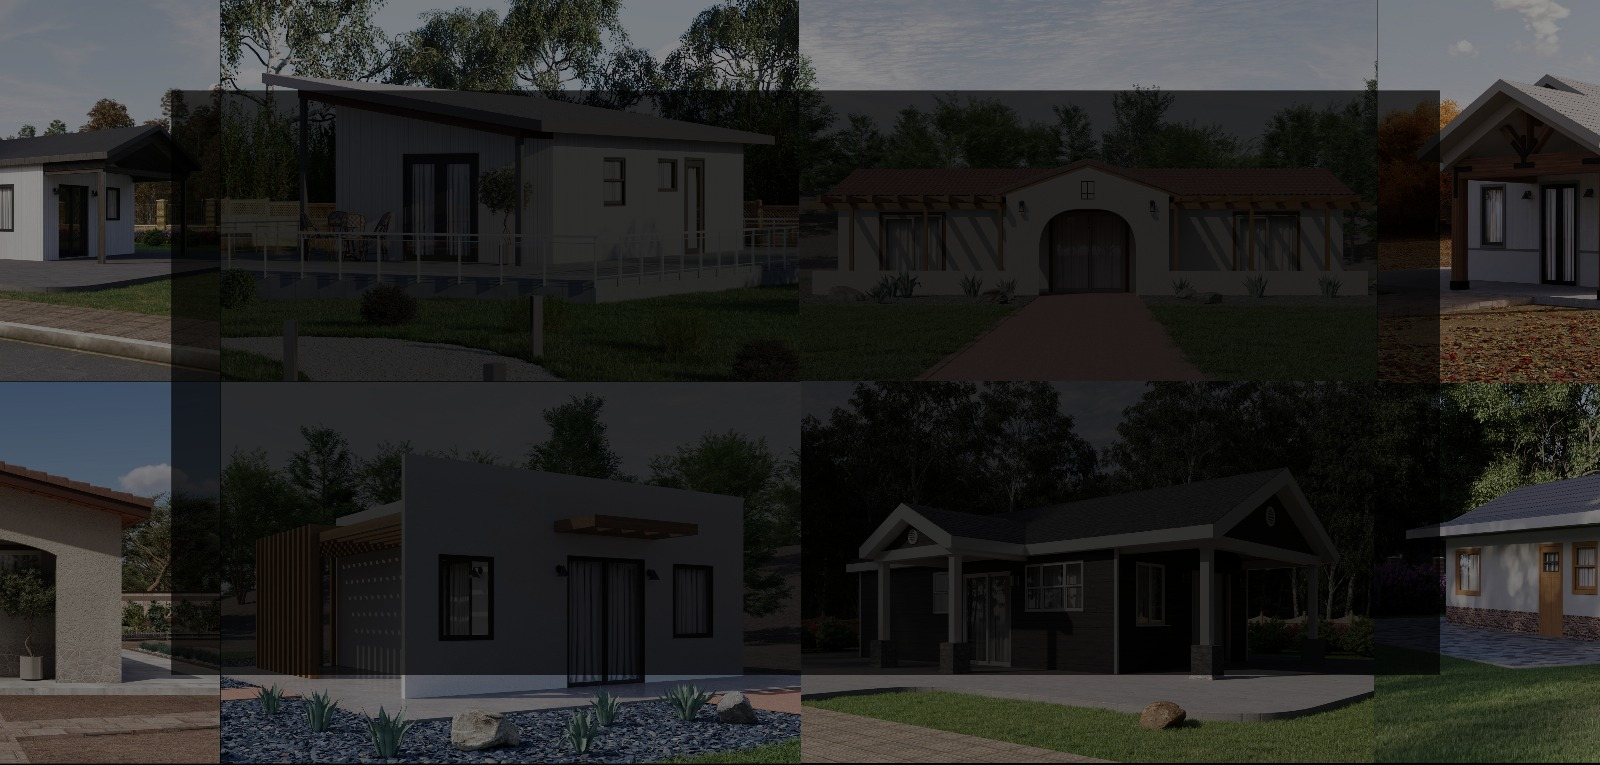
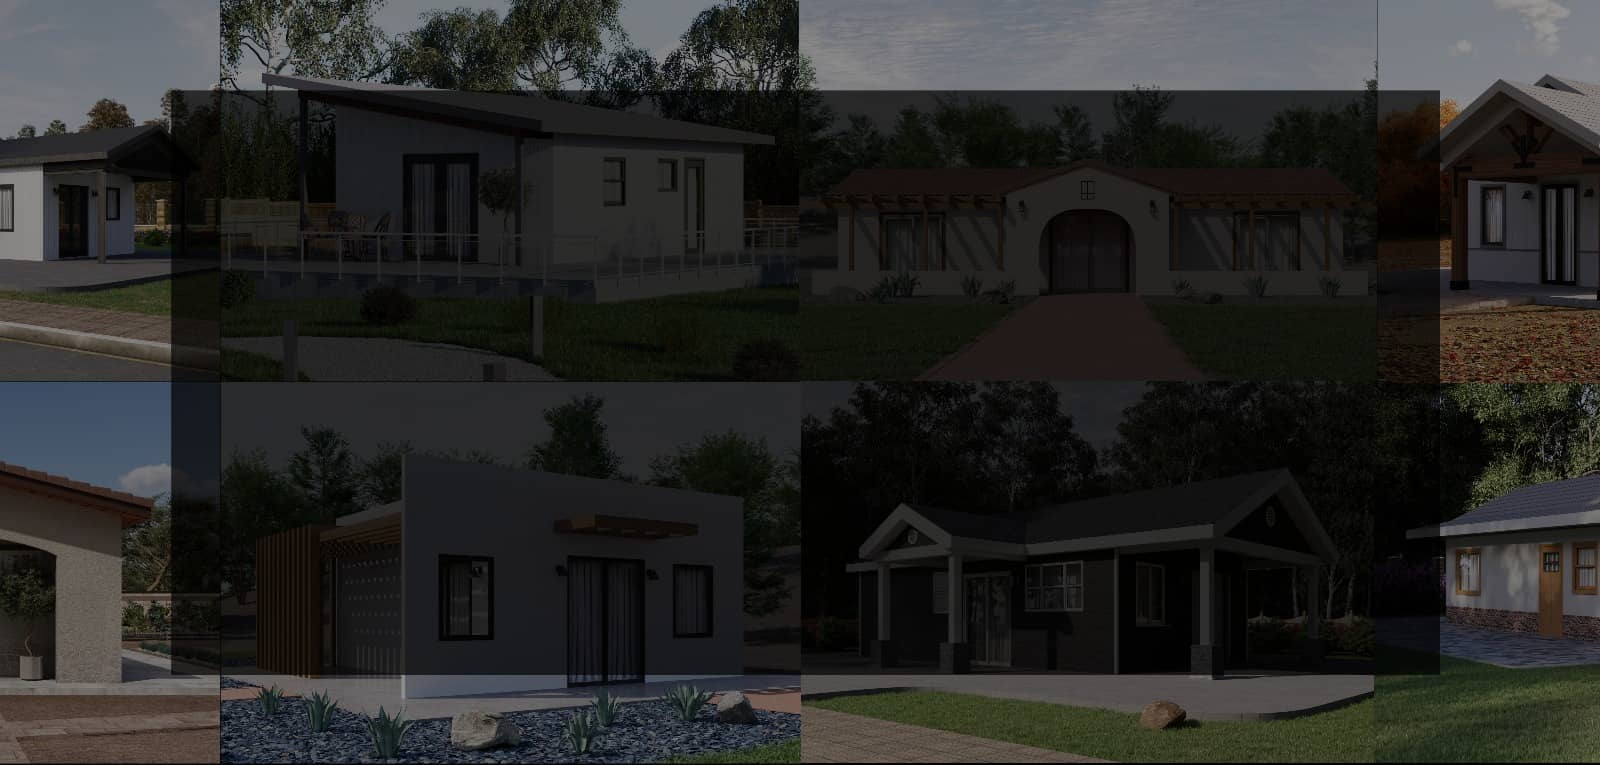
ggs

diff --git a/aduplans-web/app/page.js b/aduplans-web/app/page.js
@@ -1,4 +1,5 @@
 import Link from "next/link";
+import { Suspense } from "react";
 import { getAllPlans, buildFacets } from "@/lib/baserow";
 import StateSelector from "@/components/StateSelector";
 import USAMap from "@/components/USAMap";
@@ -8,21 +9,20 @@ import MetalVsWood from "@/components/MetalVsWood";
 import EightSteps from "@/components/EightSteps";
 import PlanCard from "@/components/PlanCard";
 
+// Serve a cached, statically-rendered shell and refresh the catalog snapshot
+// every 5 minutes in the background (ISR) — visitors never wait on Baserow.
+export const revalidate = 300;
+
 // Real content mirrored from aduplans.com
 const VIDEOS = [
   "GncoRZO4rAI", "R0VZMLq_74Q", "Gl8Y2hnVSX0", "8kx_BZTx2hs",
   "MerPhwrbB-c", "zuwfcVv9Rkk", "km4yeQrO7_o", "BuNzQaJor_s",
 ];
 
-export default async function HomePage() {
-  const plans = await getAllPlans();
-  const facets = buildFacets(plans);
-  const placeable = plans.filter((p) => p.placeable);
-  const featured = placeable
-    .filter((p) => p.elevationImage)
-    .filter((_, i) => i % 11 === 0)
-    .slice(0, 8);
-
+// The page shell is SYNCHRONOUS so the hero + static sections paint instantly.
+// The two data-dependent sections are async and stream in behind <Suspense>,
+// so a slow or cold Baserow fetch can never block first paint / the hero.
+export default function HomePage() {
   return (
     <>
       {/* ── Hero (real ADUplans collage background) ──────────────────────── */}
@@ -92,62 +92,15 @@ export default async function HomePage() {
       {/* ── A note to jurisdictions + top-10 designers + City Planner video ─ */}
       <DesignersSection />
 
-      {/* ── Select your state (+ PRADU counters) ─────────────────────────── */}
-      <section id="select-state" className="border-t border-line bg-paper py-16 md:py-20">
-        <div className="container-x">
-        <div className="reveal mx-auto max-w-3xl text-center">
-          <h2 className="font-display text-3xl leading-tight text-ink md:text-4xl">
-            Choose a plan from the largest PRADU database in the world.
-          </h2>
-          <p className="mt-3 text-forest-600">
-            And FrameUpNow will convert it to steel framing for you.
-          </p>
-          <p className="mt-6 text-sm font-semibold uppercase tracking-[0.2em] text-forest-600">
-            Select your state
-          </p>
-        </div>
+      {/* ── Select your state (+ PRADU counters) — streamed ──────────────── */}
+      <Suspense fallback={<SelectStateSkeleton />}>
+        <SelectStateSection />
+      </Suspense>
 
-        {/* PRADU counters */}
-        <div className="mt-8">
-          <StatCounters total={plans.length} lastMonth={122} />
-        </div>
-
-        <div className="mt-12">
-          <p className="mb-5 text-center text-sm text-ink-soft">
-            Click your state on the map to begin — {facets.states.length} states with permit-ready
-            plans and growing.
-          </p>
-          <USAMap states={facets.states} />
-        </div>
-
-        <details className="mx-auto mt-8 max-w-4xl">
-          <summary className="cursor-pointer text-center text-sm font-semibold text-forest hover:text-forest-600">
-            Or choose your state from the list ↓
-          </summary>
-          <div className="mt-6">
-            <StateSelector states={facets.states} />
-          </div>
-        </details>
-        </div>
-      </section>
-
-      {/* ── Featured plans ───────────────────────────────────────────────── */}
-      <section className="container-x py-16">
-        <div className="reveal flex items-end justify-between gap-4">
-          <div>
-            <span className="text-xs font-semibold uppercase tracking-widest text-forest-600">Popular plans</span>
-            <h2 className="mt-1 font-display text-3xl text-ink md:text-4xl">Featured PRADUs</h2>
-          </div>
-          <Link href="/plans" className="hidden shrink-0 text-sm font-semibold text-forest hover:text-forest-600 sm:block">
-            View all {plans.length.toLocaleString()} →
-          </Link>
-        </div>
-        <div className="reveal-stagger mt-8 grid grid-cols-2 gap-4 md:grid-cols-4 md:gap-5">
-          {featured.map((plan, i) => (
-            <PlanCard key={plan.id} plan={plan} priority={i < 4} />
-          ))}
-        </div>
-      </section>
+      {/* ── Featured plans — streamed ────────────────────────────────────── */}
+      <Suspense fallback={<FeaturedSkeleton />}>
+        <FeaturedPlans />
+      </Suspense>
 
       {/* ── 20 reasons: Metal vs Wood ────────────────────────────────────── */}
       <MetalVsWood />
@@ -197,6 +150,111 @@ export default async function HomePage() {
         </div>
       </section>
     </>
+  );
+}
+
+// ── Data-dependent sections (async → streamed behind <Suspense>) ─────────────
+// Both call getAllPlans(); React cache() dedupes it to a single fetch per render.
+
+async function SelectStateSection() {
+  const plans = await getAllPlans();
+  const facets = buildFacets(plans);
+  return (
+    <section id="select-state" className="border-t border-line bg-paper py-16 md:py-20">
+      <div className="container-x">
+        <div className="reveal mx-auto max-w-3xl text-center">
+          <h2 className="font-display text-3xl leading-tight text-ink md:text-4xl">
+            Choose a plan from the largest PRADU database in the world.
+          </h2>
+          <p className="mt-3 text-forest-600">
+            And FrameUpNow will convert it to steel framing for you.
+          </p>
+          <p className="mt-6 text-sm font-semibold uppercase tracking-[0.2em] text-forest-600">
+            Select your state
+          </p>
+        </div>
+
+        {/* PRADU counters */}
+        <div className="mt-8">
+          <StatCounters total={plans.length} lastMonth={122} />
+        </div>
+
+        <div className="mt-12">
+          <p className="mb-5 text-center text-sm text-ink-soft">
+            Click your state on the map to begin — {facets.states.length} states with permit-ready
+            plans and growing.
+          </p>
+          <USAMap states={facets.states} />
+        </div>
+
+        <details className="mx-auto mt-8 max-w-4xl">
+          <summary className="cursor-pointer text-center text-sm font-semibold text-forest hover:text-forest-600">
+            Or choose your state from the list ↓
+          </summary>
+          <div className="mt-6">
+            <StateSelector states={facets.states} />
+          </div>
+        </details>
+      </div>
+    </section>
+  );
+}
+
+async function FeaturedPlans() {
+  const plans = await getAllPlans();
+  const featured = plans
+    .filter((p) => p.placeable && p.elevationImage)
+    .filter((_, i) => i % 11 === 0)
+    .slice(0, 8);
+  return (
+    <section className="container-x py-16">
+      <div className="reveal flex items-end justify-between gap-4">
+        <div>
+          <span className="text-xs font-semibold uppercase tracking-widest text-forest-600">Popular plans</span>
+          <h2 className="mt-1 font-display text-3xl text-ink md:text-4xl">Featured PRADUs</h2>
+        </div>
+        <Link href="/plans" className="hidden shrink-0 text-sm font-semibold text-forest hover:text-forest-600 sm:block">
+          View all {plans.length.toLocaleString()} →
+        </Link>
+      </div>
+      <div className="reveal-stagger mt-8 grid grid-cols-2 gap-4 md:grid-cols-4 md:gap-5">
+        {featured.map((plan, i) => (
+          <PlanCard key={plan.id} plan={plan} priority={i < 4} />
+        ))}
+      </div>
+    </section>
+  );
+}
+
+// Layout-stable placeholders so streaming causes no content jump (no CLS).
+function SelectStateSkeleton() {
+  return (
+    <section id="select-state" className="border-t border-line bg-paper py-16 md:py-20">
+      <div className="container-x">
+        <div className="mx-auto max-w-3xl text-center">
+          <div className="mx-auto h-9 w-3/4 animate-pulse rounded bg-mist" />
+          <div className="mx-auto mt-4 h-4 w-1/2 animate-pulse rounded bg-mist" />
+        </div>
+        <div className="mx-auto mt-8 flex max-w-xl flex-col gap-4 sm:flex-row">
+          <div className="h-28 flex-1 animate-pulse rounded-2xl bg-mist" />
+          <div className="h-28 flex-1 animate-pulse rounded-2xl bg-mist" />
+        </div>
+        <div className="mx-auto mt-12 aspect-[1.6/1] max-w-4xl animate-pulse rounded-3xl bg-mist" />
+      </div>
+    </section>
+  );
+}
+
+function FeaturedSkeleton() {
+  return (
+    <section className="container-x py-16">
+      <div className="h-9 w-56 animate-pulse rounded bg-mist" />
+      <div className="mt-8 grid grid-cols-2 gap-4 md:grid-cols-4 md:gap-5">
+        {Array.from({ length: 8 }).map((_, i) => (
+          <div key={i} className="aspect-[3/4] animate-pulse rounded-xl bg-mist" />
+        ))}
+      </div>
+    </section>
   );
 }
 

diff --git a/aduplans-web/components/ScrollReveal.js b/aduplans-web/components/ScrollReveal.js
@@ -6,17 +6,20 @@ import { useEffect } from "react";
 // Adds `.is-visible` to any `.reveal` / `.reveal-stagger` element as it scrolls
 // into view, powering the site-wide fade-and-rise animations. No-JS and
 // reduced-motion users see everything normally (CSS gates on `html.js-ready`).
+//
+// It also watches for content that mounts AFTER first paint — sections streamed
+// in via <Suspense> arrive late, so a one-time scan would leave them stuck at
+// the hidden base state. A MutationObserver registers them as they appear.
 export default function ScrollReveal() {
   const pathname = usePathname();
 
   useEffect(() => {
     document.documentElement.classList.add("js-ready");
 
-    const els = Array.from(document.querySelectorAll(".reveal, .reveal-stagger"));
-    if (!els.length) return;
+    const SEL = ".reveal, .reveal-stagger";
 
     if (!("IntersectionObserver" in window)) {
-      els.forEach((el) => el.classList.add("is-visible"));
+      document.querySelectorAll(SEL).forEach((el) => el.classList.add("is-visible"));
       return;
     }
 
@@ -32,8 +35,31 @@ export default function ScrollReveal() {
       { rootMargin: "0px 0px -8% 0px", threshold: 0.06 }
     );
 
-    els.forEach((el) => io.observe(el));
-    return () => io.disconnect();
+    const seen = new WeakSet();
+    const observe = (el) => {
+      if (!seen.has(el)) {
+        seen.add(el);
+        io.observe(el);
+      }
+    };
+    const scan = (node) => {
+      if (node.nodeType !== 1) return; // elements only
+      if (node.matches?.(SEL)) observe(node);
+      node.querySelectorAll?.(SEL).forEach(observe);
+    };
+
+    scan(document.body);
+
+    // Pick up sections that stream in later (Suspense-resolved async content).
+    const mo = new MutationObserver((muts) => {
+      for (const m of muts) m.addedNodes.forEach(scan);
+    });
+    mo.observe(document.body, { childList: true, subtree: true });
+
+    return () => {
+      io.disconnect();
+      mo.disconnect();
+    };
   }, [pathname]);
 
   return null;

diff --git a/aduplans-web/app/plans/[id]/page.js b/aduplans-web/app/plans/[id]/page.js
@@ -6,6 +6,15 @@ import PlanEstimator from "@/components/PlanEstimator";
 import PlanGallery from "@/components/PlanGallery";
 import PlanCard from "@/components/PlanCard";
 
+// ISR: don't pre-build every plan at build time (there are 1000+), but cache
+// each plan page after its first visit and refresh every 5 minutes. So only the
+// very first visitor to a given plan pays the render cost — everyone else gets
+// an instant, statically-cached page.
+export const revalidate = 300;
+export function generateStaticParams() {
+  return [];
+}
+
 export async function generateMetadata({ params }) {
   const { id } = await params;
   const plan = await getPlanById(id);